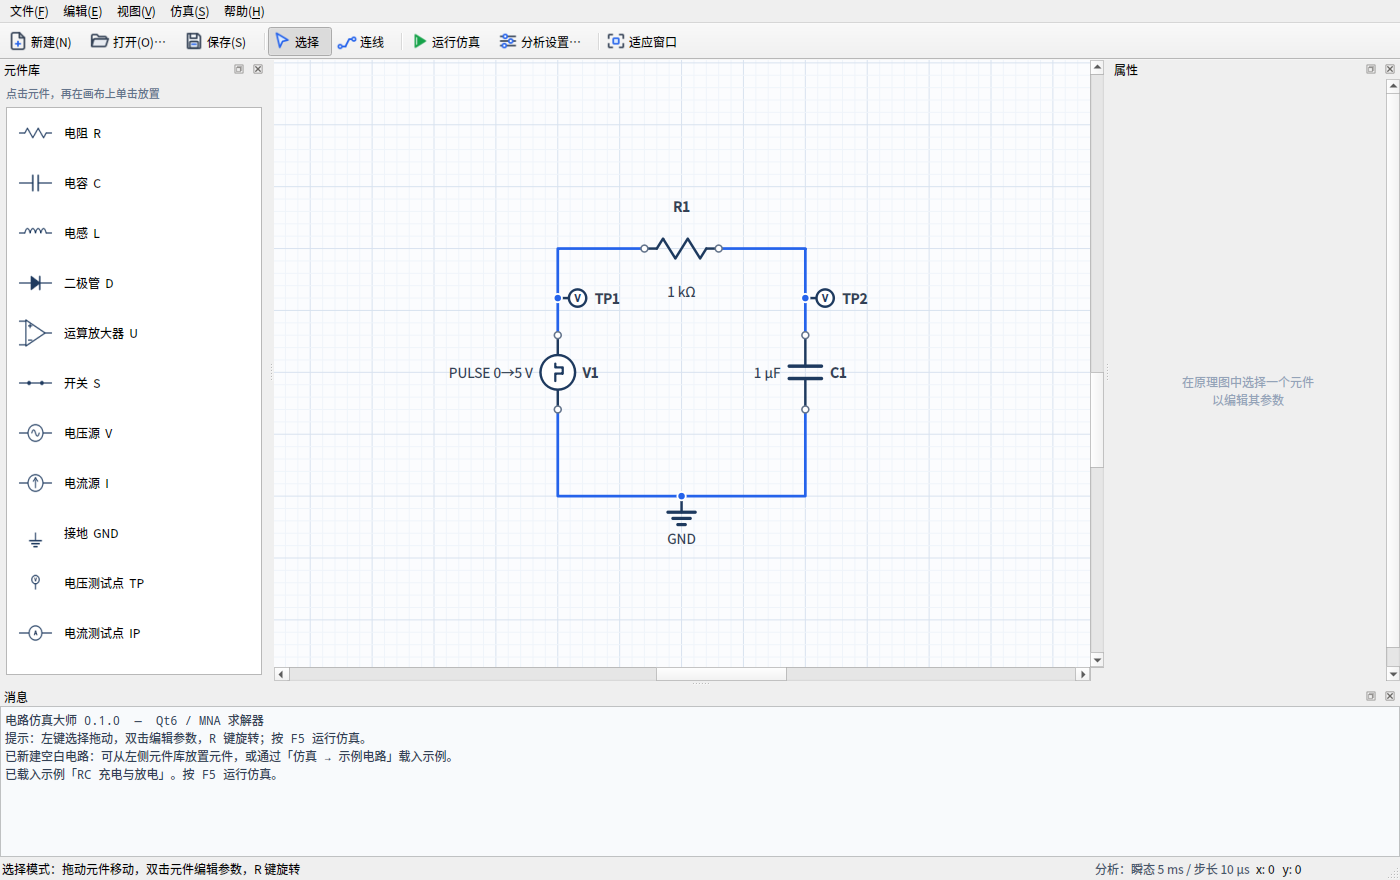
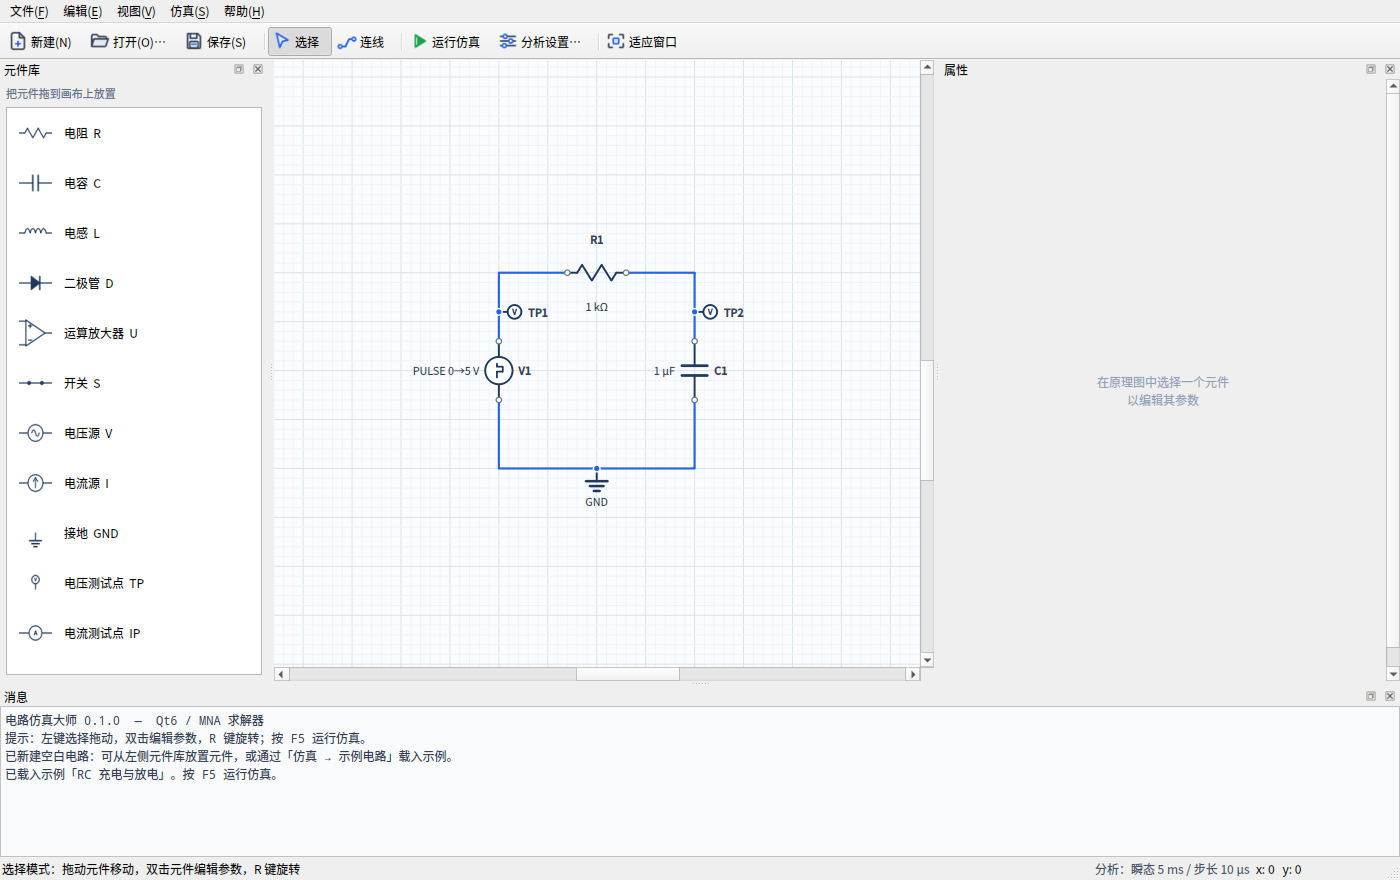
feat(ui): 元件库改为拖拽放置
- 元件库支持拖出，画布接受放置并按网格吸附、自动选中
- 移除“先点库、再点画布”的放置工具与相关代码
- 拖拽使用自定义 MIME 传递元件类型，附带放置测试
- 提示文字、快速上手与 README 同步

diff --git a/src/ui/SchematicView.cpp b/src/ui/SchematicView.cpp
@@ -6,6 +6,9 @@
 
 #include <QGraphicsPathItem>
 #include <QContextMenuEvent>
+#include <QDragEnterEvent>
+#include <QDropEvent>
+#include <QMimeData>
 #include <QKeyEvent>
 #include <QMenu>
 #include <QLineF>
@@ -32,6 +35,8 @@ SchematicView::SchematicView(SchematicScene* scene, QWidget* parent)
     setFrameShape(QFrame::NoFrame);
     setFocusPolicy(Qt::StrongFocus);
     setMouseTracking(true);
+    setAcceptDrops(true);
+    viewport()->setAcceptDrops(true);
     setHorizontalScrollBarPolicy(Qt::ScrollBarAsNeeded);
     setVerticalScrollBarPolicy(Qt::ScrollBarAsNeeded);
     setBackgroundBrush(Qt::NoBrush);
@@ -51,12 +56,6 @@ void SchematicView::setTool(Tool tool)
     emit toolChanged();
 }
 
-void SchematicView::setPendingType(ComponentType type)
-{
-    m_pendingType = type;
-    setTool(Tool::Place);
-}
-
 void SchematicView::updateCursorAndHint()
 {
     switch (m_tool) {
@@ -67,11 +66,6 @@ void SchematicView::updateCursorAndHint()
     case Tool::Wire:
         viewport()->setCursor(Qt::CrossCursor);
         emit hintChanged(QStringLiteral("连线模式：单击放置拐点，双击或右键结束，Esc 取消"));
-        break;
-    case Tool::Place:
-        viewport()->setCursor(Qt::CrossCursor);
-        emit hintChanged(QStringLiteral("放置 %1：单击画布放置（按住 Ctrl 可连续放置），Esc 退出")
-                             .arg(typeName(m_pendingType)));
         break;
     }
 }
@@ -88,16 +82,6 @@ void SchematicView::mousePressEvent(QMouseEvent* event)
 
     if (event->button() == Qt::RightButton && m_tool == Tool::Wire && !m_wirePoints.isEmpty()) {
         finishWire();
-        event->accept();
-        return;
-    }
-
-    if (event->button() == Qt::LeftButton && m_tool == Tool::Place) {
-        const QPointF pos = m_scene->snap(mapToScene(event->pos()));
-        ComponentItem* item = m_scene->placeComponent(m_pendingType, pos);
-        emit componentPlaced(item);
-        if (!(event->modifiers() & Qt::ControlModifier))
-            setTool(Tool::Select);
         event->accept();
         return;
     }
@@ -162,6 +146,52 @@ void SchematicView::wheelEvent(QWheelEvent* event)
     const double factor = event->angleDelta().y() > 0 ? 1.15 : 1.0 / 1.15;
     zoomBy(factor);
     event->accept();
+}
+
+void SchematicView::dragEnterEvent(QDragEnterEvent* event)
+{
+    if (event->mimeData()->hasFormat(QStringLiteral("application/x-csm-component"))) {
+        event->acceptProposedAction();
+        viewport()->setCursor(Qt::DragCopyCursor);
+    } else {
+        event->ignore();
+    }
+}
+
+void SchematicView::dragMoveEvent(QDragMoveEvent* event)
+{
+    if (event->mimeData()->hasFormat(QStringLiteral("application/x-csm-component")))
+        event->acceptProposedAction();
+    else
+        event->ignore();
+}
+
+void SchematicView::dropEvent(QDropEvent* event)
+{
+    if (!event->mimeData()->hasFormat(QStringLiteral("application/x-csm-component"))) {
+        event->ignore();
+        return;
+    }
+
+    bool ok = false;
+    const int typeValue =
+        event->mimeData()->data(QStringLiteral("application/x-csm-component")).toInt(&ok);
+    if (!ok) {
+        event->ignore();
+        return;
+    }
+
+    cancelWire();
+    const QPointF scenePos = m_scene->snap(mapToScene(event->position().toPoint()));
+    ComponentItem* item = m_scene->placeComponent(ComponentType(typeValue), scenePos);
+    if (item) {
+        m_scene->clearSelection();
+        item->setSelected(true);
+        setFocus();
+        emit componentPlaced(item);
+    }
+    updateCursorAndHint();
+    event->acceptProposedAction();
 }
 
 void SchematicView::contextMenuEvent(QContextMenuEvent* event)
@@ -242,8 +272,6 @@ void SchematicView::keyPressEvent(QKeyEvent* event)
     if (event->key() == Qt::Key_Escape) {
         if (m_tool == Tool::Wire) {
             cancelWire();
-            setTool(Tool::Select);
-        } else if (m_tool == Tool::Place) {
             setTool(Tool::Select);
         } else {
             m_scene->clearSelection();

diff --git a/src/ui/MainWindow.cpp b/src/ui/MainWindow.cpp
@@ -12,6 +12,7 @@
 #include "ui/Symbols.h"
 #include "ui/WaveformWindow.h"
 
+#include <QAbstractItemView>
 #include <QAction>
 #include <QActionGroup>
 #include <QApplication>
@@ -34,6 +35,7 @@
 #include <QMenu>
 #include <QMenuBar>
 #include <QMessageBox>
+#include <QMimeData>
 #include <QPlainTextEdit>
 #include <QPushButton>
 #include <QScrollArea>
@@ -50,6 +52,29 @@
 namespace csm {
 
 namespace {
+
+class ComponentLibrary : public QListWidget {
+public:
+    explicit ComponentLibrary(QWidget* parent = nullptr)
+        : QListWidget(parent)
+    {
+        setDragEnabled(true);
+        setDragDropMode(QAbstractItemView::DragOnly);
+        setDefaultDropAction(Qt::CopyAction);
+    }
+
+protected:
+    QMimeData* mimeData(const QList<QListWidgetItem*>& items) const override
+    {
+        if (items.isEmpty())
+            return nullptr;
+        auto* mime = new QMimeData;
+        mime->setData(QStringLiteral("application/x-csm-component"),
+                      QByteArray::number(items.first()->data(Qt::UserRole).toInt()));
+        return mime;
+    }
+};
+
 
 AnalysisKind kindFromTag(const QString& tag)
 {
@@ -498,12 +523,12 @@ void MainWindow::createDocks()
     libraryLayout->setContentsMargins(6, 6, 6, 6);
     libraryLayout->setSpacing(6);
 
-    auto* hint = new QLabel(QStringLiteral("点击元件，再在画布上单击放置"), libraryContainer);
+    auto* hint = new QLabel(QStringLiteral("把元件拖到画布上放置"), libraryContainer);
     hint->setWordWrap(true);
     hint->setStyleSheet(QStringLiteral("color:#64748b; font-size:11px;"));
     libraryLayout->addWidget(hint);
 
-    m_library = new QListWidget(libraryContainer);
+    m_library = new ComponentLibrary(libraryContainer);
     m_library->setIconSize(QSize(46, 34));
     m_library->setSpacing(2);
     m_library->setUniformItemSizes(true);
@@ -511,9 +536,6 @@ void MainWindow::createDocks()
     libraryDock->setWidget(libraryContainer);
     addDockWidget(Qt::LeftDockWidgetArea, libraryDock);
     buildLibrary();
-
-    connect(m_library, &QListWidget::itemClicked, this, &MainWindow::onLibraryClicked);
-    connect(m_library, &QListWidget::itemActivated, this, &MainWindow::onLibraryClicked);
 
     auto* propsDock = new QDockWidget(QStringLiteral("属性"), this);
     propsDock->setObjectName(QStringLiteral("propsDock"));
@@ -573,15 +595,6 @@ void MainWindow::updateAnalysisLabel()
         break;
     }
     m_analysisLabel->setText(text);
-}
-
-void MainWindow::onLibraryClicked(QListWidgetItem* item)
-{
-    if (!item)
-        return;
-    const auto type = ComponentType(item->data(Qt::UserRole).toInt());
-    m_view->setPendingType(type);
-    m_view->setFocus();
 }
 
 void MainWindow::onSelectionChanged()
@@ -965,7 +978,7 @@ void MainWindow::showQuickGuide()
     box.setText(QStringLiteral(
         "<b>三步完成一次仿真</b>"
         "<ol>"
-        "<li>在左侧<b>元件库</b>中点击元件，再在画布上单击放置；按 <b>R</b> 旋转。</li>"
+        "<li>从左侧<b>元件库</b>把元件拖到画布上；按 <b>R</b> 旋转。</li>"
         "<li>点击工具栏<b>连线</b>（W），在引脚处单击并拖出折线，双击结束。<br>"
         "导线端点吸附到引脚后会自动出现连接点。</li>"
         "<li>双击元件修改数值（可直接写 10kΩ、4.7µF、1mH，不写单位按默认单位），"

diff --git a/tests/test_ui.cpp b/tests/test_ui.cpp
@@ -14,6 +14,9 @@
 #include <QFileInfo>
 #include <QPixmap>
 #include <QComboBox>
+#include <QDragEnterEvent>
+#include <QDropEvent>
+#include <QMimeData>
 #include <QIcon>
 #include <QListWidget>
 #include <QLabel>
@@ -277,6 +280,37 @@ private slots:
         }
 
         QVERIFY(wave->grab().save(dir + QStringLiteral("/shots/waveform_opamp.png")));
+    }
+
+    void dragComponentFromLibrary()
+    {
+        MainWindow window;
+        window.resize(1200, 800);
+        window.show();
+        QTest::qWait(300);
+
+        auto* scene = window.findChild<SchematicScene*>();
+        auto* view = window.findChild<SchematicView*>();
+        QVERIFY(scene && view);
+        QCOMPARE(scene->componentItems().size(), 0);
+
+        QMimeData mime;
+        mime.setData(QStringLiteral("application/x-csm-component"),
+                     QByteArray::number(int(ComponentType::Resistor)));
+
+        const QPoint targetInView = view->mapFromScene(QPointF(200, 200));
+        const QPoint target = view->viewport()->mapFrom(view, targetInView);
+        QDragEnterEvent enter(target, Qt::CopyAction, &mime, Qt::LeftButton, Qt::NoModifier);
+        QApplication::sendEvent(view->viewport(), &enter);
+        QDropEvent drop(QPointF(target), Qt::CopyAction, &mime, Qt::LeftButton, Qt::NoModifier);
+        QApplication::sendEvent(view->viewport(), &drop);
+        QTest::qWait(100);
+
+        QCOMPARE(scene->componentItems().size(), 1);
+        ComponentItem* item = scene->componentItems().first();
+        QCOMPARE(item->component().type, ComponentType::Resistor);
+        QCOMPARE(item->pos(), QPointF(200, 200));
+        QVERIFY(item->isSelected());
     }
 
     void copyPasteAndMirror()

diff --git a/src/ui/SchematicView.h b/src/ui/SchematicView.h
@@ -17,14 +17,13 @@ class ComponentItem;
 class SchematicView : public QGraphicsView {
     Q_OBJECT
 public:
-    enum class Tool { Select, Wire, Place };
+    enum class Tool { Select, Wire };
 
     explicit SchematicView(SchematicScene* scene, QWidget* parent = nullptr);
 
     void setTool(Tool tool);
     Tool tool() const { return m_tool; }
 
-    void setPendingType(ComponentType type);
     void zoomBy(double factor);
     void zoomFit();
     void rotateSelection();
@@ -47,6 +46,9 @@ protected:
     void wheelEvent(QWheelEvent* event) override;
     void keyPressEvent(QKeyEvent* event) override;
     void contextMenuEvent(QContextMenuEvent* event) override;
+    void dragEnterEvent(QDragEnterEvent* event) override;
+    void dragMoveEvent(QDragMoveEvent* event) override;
+    void dropEvent(QDropEvent* event) override;
 
 private:
     void startWire(const QPointF& scenePos);
@@ -57,7 +59,6 @@ private:
 
     SchematicScene* m_scene = nullptr;
     Tool m_tool = Tool::Select;
-    ComponentType m_pendingType = ComponentType::Resistor;
 
     QVector<QPointF> m_wirePoints;
     QGraphicsPathItem* m_preview = nullptr;

diff --git a/src/ui/MainWindow.h b/src/ui/MainWindow.h
@@ -51,7 +51,6 @@ private:
 
     void onSelectionChanged();
     void onEditRequested(ComponentItem* item);
-    void onLibraryClicked(QListWidgetItem* item);
     void setDirty(bool dirty);
     bool maybeSave();
     void updateTitle();

diff --git a/README.md b/README.md
@@ -114,7 +114,7 @@ ctest --test-dir build --output-on-failure
 
 启动后是空白电路。想快速体验可先打开「仿真 → 示例电路」中的任意示例。
 
-1. **放置元件**：在左侧「元件库」点击元件，然后在画布上单击放置；按住 `Ctrl` 可连续放置。
+1. **放置元件**：从左侧「元件库」把元件拖到画布上放置。
 2. **连线**：点击工具栏「连线」（或按 `W`），在引脚处单击，移动鼠标继续单击添加拐点，**双击或右键结束**；`Esc` 取消。
 3. **编辑参数**：双击元件，或右键选择「编辑参数…」，在右侧属性面板修改编号与数值，回车生效。
    右键还可以旋转、水平/垂直翻转、复制粘贴元件。
